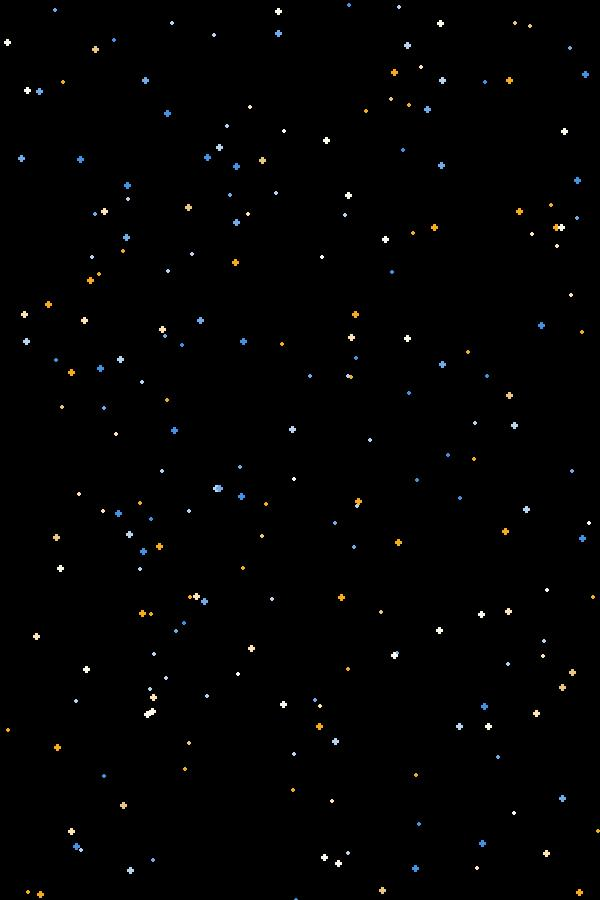
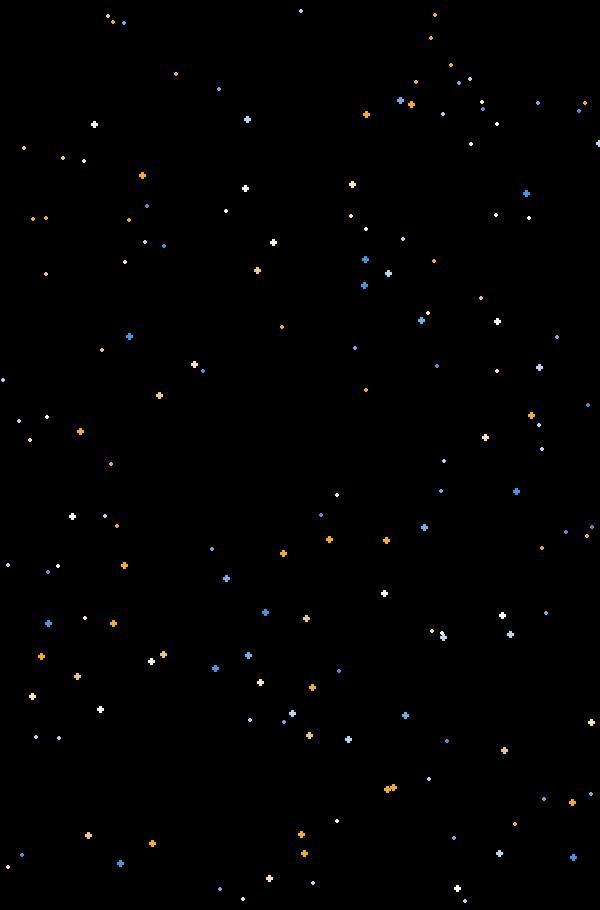
Added powerups and moving background.

diff --git a/assets/main.py b/assets/main.py
@@ -14,28 +14,31 @@ pygame.display.set_caption("APOLLO ADVENTURE")
 assets = os.path.dirname(__file__)
 bg_filename = os.path.join(assets, 'background.jpg')
 
-space = Image.new("RGB", (WIDTH, HEIGHT), "black")
-d = ImageDraw.Draw(space)
 
-star_number = random.randrange(200, 250, 5)
-colour_list = ["#4291E5", "#70ABE9", "#B8D3EF",
-               "#FEF8EC", "#FDE4B2", "#E9C57D", "#F5AC1B"]
+def create_background():
+    space = Image.new("RGB", (WIDTH, HEIGHT+10), "black")
+    d = ImageDraw.Draw(space)
 
-# stars can be though of as 5 squares of equal size organized into a cross
-# offset is how far away from origin (top left corner)
-for x in range(star_number):
-    offsetx = random.randrange(0, WIDTH, 1)
-    offsety = random.randrange(0, HEIGHT, 1)
-    colour = random.choices(colour_list, weights=(3, 3, 5, 3, 2, 2, 6))[0]
-    # more accurate weight distribution: weights=(0.0000003, 0.0013, 0.006, 0.03, 0.076, 0.121, 0.7645)
-    size = random.randrange(1, 3, 1)
+    star_number = random.randrange(100, 260, 10)
+    colour_list = ["#4291E5", "#70ABE9", "#B8D3EF",
+                   "#FEF8EC", "#FDE4B2", "#E9C57D", "#F5AC1B"]
 
-    if space.getpixel((offsetx, offsety)) is not (0, 0, 0):
-        star_x = d.rectangle([offsetx, size + offsety,
-                              3 * size + offsetx, 2 * size + offsety], fill=colour)
-        star_y = d.rectangle([size + offsetx, offsety,
-                              2 * size + offsetx, 3 * size + offsety], fill=colour)
-space.save(bg_filename)
+    # stars can be though of as 5 squares of equal size organized into a cross
+    # offset is how far away from origin (top left corner)
+    for x in range(star_number):
+        offsetx = random.randrange(0, WIDTH)
+        offsety = random.randrange(0, HEIGHT)
+        colour = random.choices(colour_list, weights=(3, 3, 5, 3, 2, 2, 6))[0]
+        # more accurate weight distribution: weights=(0.0000003, 0.0013, 0.006, 0.03, 0.076, 0.121, 0.7645)
+        size = random.randrange(1, 3)
+
+        if space.getpixel((offsetx, offsety)) is not (0, 0, 0):
+            star_x = d.rectangle([offsetx, size + offsety,
+                                  3 * size + offsetx, 2 * size + offsety], fill=colour)
+            star_y = d.rectangle([size + offsetx, offsety,
+                                  2 * size + offsetx, 3 * size + offsety], fill=colour)
+    space.save(bg_filename)
+create_background()
 
 # Load the images
 SPACESHIP = pygame.image.load(os.path.join(assets, "spaceship_s.png"))
@@ -51,10 +54,14 @@ UFO4_S = pygame.image.load(os.path.join(assets, "ufo_orange_s.png"))
 PROJECTILE = pygame.image.load(os.path.join(assets, "tennis_ball_s.png"))
 PROJECTILE_BAD_S = pygame.image.load(os.path.join(assets, "tennis_ball_red_s.png"))
 PROJECTILE_BAD = pygame.image.load(os.path.join(assets, "tennis_ball_red.png"))
+
 POWERUP_BONE = pygame.image.load(os.path.join(assets, "bone.png"))
 POWERUP_HEART = pygame.image.load(os.path.join(assets, "heart.png"))
+POWERUP_BOMB = pygame.image.load(os.path.join(assets, "bomb.png"))
+POWERUP_SHIELD = pygame.image.load(os.path.join(assets, "shield.png"))
+
 EMPTY = pygame.image.load(os.path.join(assets, "empty.png"))
-BACKGROUND = pygame.image.load(os.path.join(assets, "background.jpg"))
+BACKGROUND = pygame.image.load(bg_filename)
 
 
 class Projectile:
@@ -71,7 +78,7 @@ class Projectile:
         self.y += speed
 
     def offscreen(self, height):
-        return not (height >= self.y >= 0)
+        return not (height >= self.y >= 0) # todo sometimes spawning balls get glitched at top
 
     def collision(self, obj):
         return collide(self, obj)
@@ -86,10 +93,9 @@ def collide(obj1, obj2):
 class Ship:
     COOLDOWN = 30
 
-    def __init__(self, x, y, health=50):
+    def __init__(self, x, y):
         self.x = x
         self.y = y
-        self.health = health
         self.ship_img = None
         self.projectile_img = None
         self.projectiles = []
@@ -131,8 +137,9 @@ class Ship:
 
 
 class Player1(Ship):
-    def __init__(self, x, y, health=30):
-        super().__init__(x, y, health)
+    def __init__(self, x, y, health=40):
+        super().__init__(x, y)
+        self.health = health
         self.ship_img = SPACESHIP
         self.projectile_img = PROJECTILE
         self.mask = pygame.mask.from_surface(self.ship_img)
@@ -178,8 +185,8 @@ class EnemyShip(Ship):
                     "pink_s": (UFO2_S, PROJECTILE_BAD_S)
                     }
 
-    def __init__(self, x, y, colour, health=50):
-        super().__init__(x, y, health)
+    def __init__(self, x, y, colour):
+        super().__init__(x, y)
         self.ship_img, self. projectile_img = self.colour_picker[colour]
         self.mask = pygame.mask.from_surface(self.ship_img)
 
@@ -196,8 +203,47 @@ class EnemyShip(Ship):
 
 class PowerUP(Projectile):
     def __init__(self, x, y, img):
-        super().__init__(x, y, img)
+        self.x = x
+        self.y = y
+        self.img = img
         self.mask = pygame.mask.from_surface(self.img)
+        self.power_up_list = []
+
+    def spawn_power(self):
+        self.power_up_list.append(self)
+
+    def offscreen(self, height):
+        return not (height >= self.y)
+
+
+class Queue:
+    def __init__(self):
+        self.items = []
+
+    def enqueue(self, item):
+        self.items.insert(0, item)
+
+    def dequeue(self):
+        return self.items.pop()
+
+    def empty(self):
+        return not bool(self.items)
+
+    def size(self):
+        return len(self.items)
+
+
+class Background:
+    def __init__(self, y, bg, x=0):
+        self.x = x
+        self.y = y
+        self.bg = bg
+
+    def draw(self, window):
+        window.blit(self.bg, (self.x, self.y))
+
+    def move(self):
+        self.y += 1
 
 
 def main():
@@ -217,21 +263,27 @@ def main():
     score = player.score
     proj_speed = 10
     proj_speed_bad = min(5 + level, 15)
-    powerup_speed = 7
+    powerup_speed = 4
     powerup_counter1 = 0
+    power_list = []
 
     enemy_list = []
-    wave_length = 5
-    enemy_speed = 1
+    wave_length = 3
+    enemy_speed = 1.5
     dead_enemy_speed = proj_speed_bad - 1
+    moving_background = Background(-10, BACKGROUND)
+    moving_background2 = Background(-HEIGHT-10, BACKGROUND)
 
     def redraw_window():
-        WINDOW.blit(BACKGROUND, (0, 0))
+        moving_background.draw(WINDOW)
+        moving_background2.draw(WINDOW)
 
         # Ships
         player.draw(WINDOW)
         for enemy in enemy_list:
             enemy.draw(WINDOW)
+        for item in power_list:
+            item.draw(WINDOW)
 
         # UI
         level_display = main_font.render(f"Level: {level}", 1, (255, 255, 255))
@@ -241,7 +293,7 @@ def main():
         WINDOW.blit(score_display, (20, HEIGHT - 50))
         WINDOW.blit(level_display, (WIDTH - level_display.get_width() - 20, 20))
         if lost:
-            time.sleep(0.5)
+            #time.sleep(0.5)
             WINDOW.blit(BACKGROUND, (0, 0))
             lost_title = lost_font.render('YOU LOSE', 1, (255, 255, 255))
             WINDOW.blit(lost_title, (WIDTH / 2 - lost_title.get_width() / 2,
@@ -257,11 +309,24 @@ def main():
         redraw_window()
         score = player.score
 
+        moving_background.move()
+        moving_background2.move()
+        # there is two background imgs of height HEIGHT+10, both imgs move down
+        # the +10 is band of black pixels to ensure smooth transition from one img to the next
+        # if top of img hit top of game window
+        # then make img below = img above, create new img above
+        # since both imgs always move down another img above will hit top of game window - repeat
+        if moving_background2.y >= 0:
+            moving_background = moving_background2
+            create_background()
+            moving_background2 = Background(-HEIGHT - 10, BACKGROUND)
+
+
         if lives <= 0 or player.health <= 0:
             lost = True
             lost_count += 1
         if lost:
-            if lost_count > fps*3:
+            if lost_count > fps*2:
                 run = False
             else:
                 continue
@@ -288,14 +353,46 @@ def main():
         # ship spawning - balance at the end
         if len(enemy_list) == 0:
             level += 1
-            wave_length += 5
+            wave_length += 2
             for n in range(wave_length):
                 enemy = EnemyShip(random.randrange(10, WIDTH - 200),
-                                  random.randrange(-1000, -100),
+                                  random.randrange(-500, -100),
                                   random.choice(["purple", "blue", "pink", "orange",
                                                  "purple_s", "blue_s", "pink_s", "orange_s"])
                                   )
                 enemy_list.append(enemy)
+
+            # powerup spawning
+            if random.randrange(0, 2) == 0 or powerup_counter1 == 0:
+            #if level == 2 or powerup_counter1 == 3:
+                powerup_counter1 = 0
+                power_maker = PowerUP(random.randrange(10, WIDTH - 50),
+                                      random.randrange(-500, -100),
+                                      random.choice([POWERUP_HEART, POWERUP_BONE,
+                                                     POWERUP_BOMB, POWERUP_SHIELD])
+                                      )
+                power_list.append(power_maker)
+            else:
+                powerup_counter1 += 1
+
+            #health shouldnt spawn earlier
+
+        # powerup movement
+        for powerup in power_list:
+            powerup.move(powerup_speed)
+            if collide(powerup, player):
+                if powerup.img == POWERUP_HEART:
+                    player.health = 40
+                    lives += 1
+                if powerup.img == POWERUP_BONE:
+                    player.health = 40
+                if powerup.img == POWERUP_BOMB:
+                    player.health = 40
+                if powerup.img == POWERUP_SHIELD:
+                    player.health = 40
+                power_list.remove(powerup)
+            elif powerup.y + 50 > HEIGHT:
+                power_list.remove(powerup)
 
         # enemy behavior
         for enemy in enemy_list:
